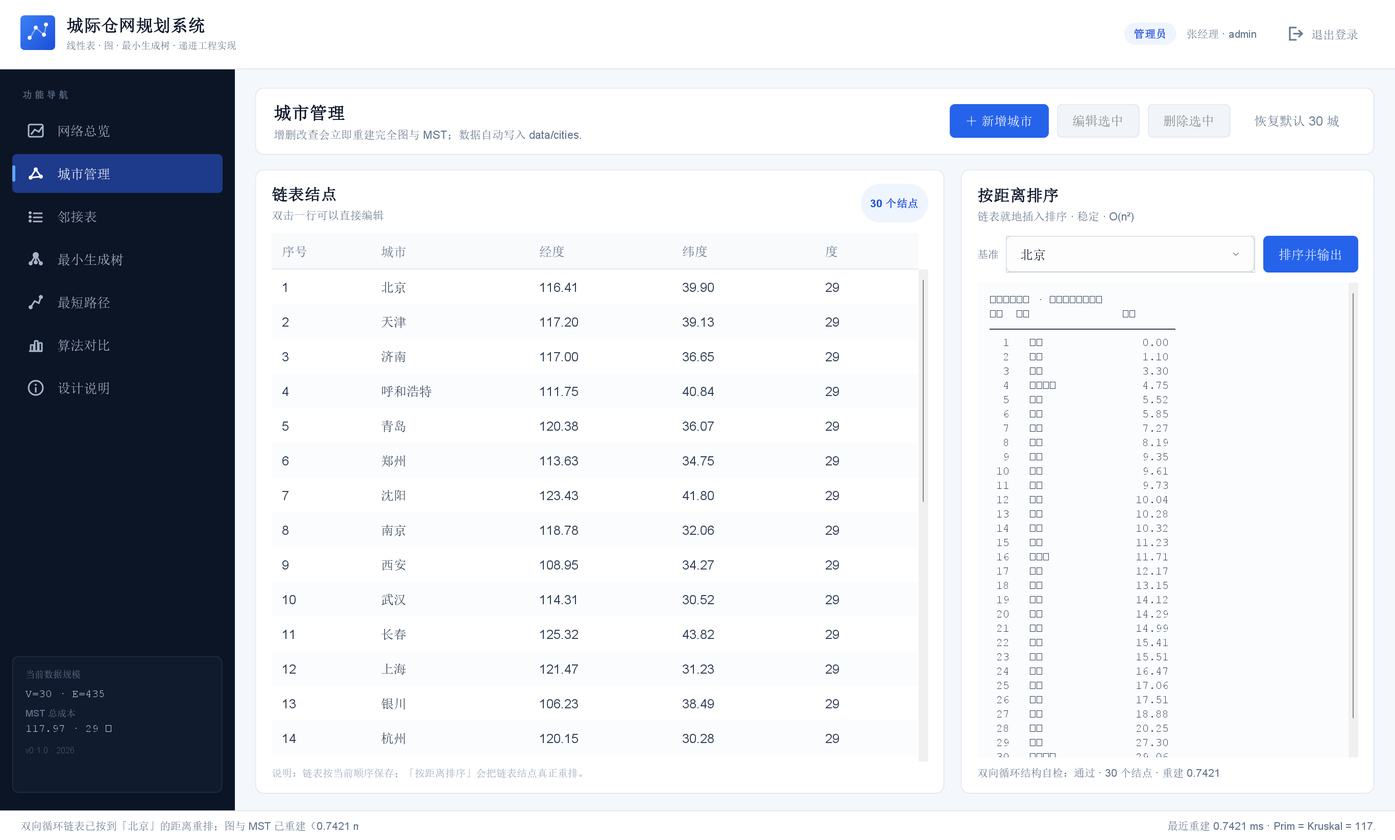
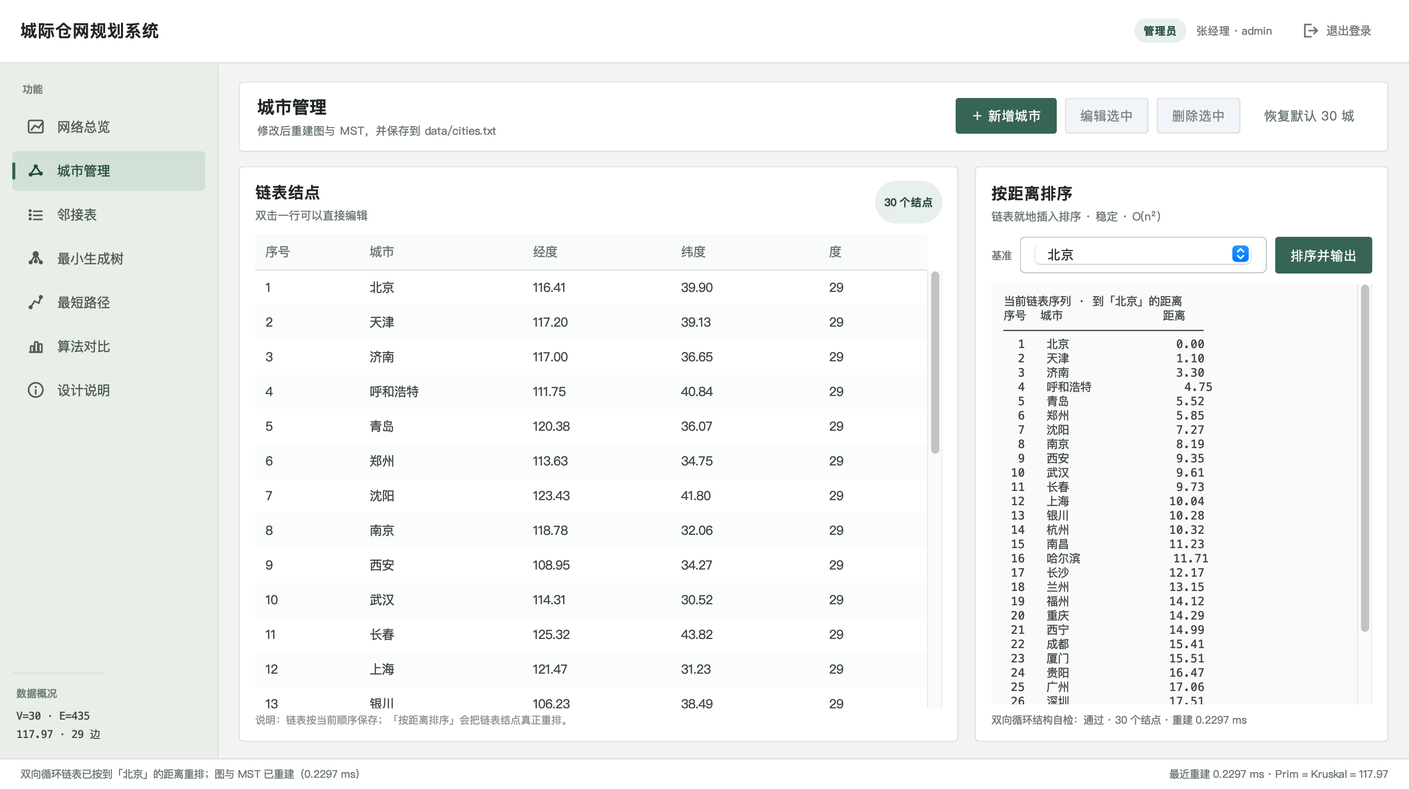
docs: align project docs and screenshots

diff --git a/src/logistics/ui/AboutPanel.java b/src/logistics/ui/AboutPanel.java
@@ -78,8 +78,8 @@ public final class AboutPanel extends JPanel {
                   邻接表 870 个边结点，两者量级接近；一般稀疏图选邻接表、稠密且需要频繁判边选矩阵。
                   本作业明确要求邻接表，且 MST 只保留 29 条边，邻接表在遍历邻边时更省。</li>
               <li><b>Prim 与 Kruskal 的区别？</b> 两者总权值相同。Prim 适合稠密图（O(V²)），
-                  Kruskal 适合稀疏图（O(E log E)）。实测 480 城稠密图 Prim 约 1.2 ms、
-                  Kruskal 约 18 ms；480 城稀疏图 Kruskal 反超。</li>
+                  Kruskal 适合稀疏图（O(E log E)）。本次 480 城测试中，稠密图 Prim 约 1.60 ms、
+                  Kruskal 约 22.74 ms；稀疏图两种算法都在 0.24 ms 以内，具体结果与机器和环境有关。</li>
               <li><b>角色与快速刷新？</b> 管理员可增删改城市，查询员只读查路径与网络信息；
                   每次增删改都会同步重建完全图、MST 与查询缓存，30 城约 1–5 ms。</li>
             </ol>

diff --git a/docs/实验报告.md b/docs/实验报告.md
@@ -1,10 +1,8 @@
-# “线性表 + 图 + 最小生成树”的递进工程实现
-
-**——城际仓网规划系统实验报告**
+# 城际仓网规划系统实验报告
 
 ## 摘要
 
-本项目面向“30 个城市仓储节点之间铺设光纤专线”的物流场景：在保证全网连通的前提下让铺设总成本最低，并提供任意两仓之间的最短路径查询。系统严格按照课程要求分三个阶段递进实现：第一阶段用**带头结点的双向循环链表**管理城市坐标，支持增删改查和按距离排序；第二阶段以城市经纬度为顶点、以欧氏距离为边权，建立**邻接表存储的带权无向图**；第三阶段分别用 **Prim** 和 **Kruskal** 求最小生成树，再基于 Prim 生成树的拓扑用 **Dijkstra** 查询任意两城的最短路径。系统采用 Java 17+ 与 Swing 实现双角色桌面界面，管理员可以增删改城市、查询员只读查询；任何城市变更都会在约 0.06 ms 内完成“完全图 + 两棵 MST + 路径缓存”的完整重建。
+本项目模拟 30 个城市仓储节点之间的光纤网络：用最小生成树计算最低铺设成本，并提供任意两仓之间的路径查询。第一阶段用**带头结点的双向循环链表**管理城市坐标，支持增删改查和按距离排序；第二阶段以城市经纬度为顶点、以欧氏距离为边权，建立**邻接表存储的带权无向图**；第三阶段分别用 **Prim** 和 **Kruskal** 求最小生成树，再基于 Prim 生成树的拓扑用 **Dijkstra** 查询任意两城的最短路径。系统采用 Java 17 与 Swing 实现管理员、查询员两种角色。性能数据来自 2026-11-13 对本仓库的一次完整自检，具体环境见 7.1 节。
 
 **关键词**：双向循环链表；邻接表；最小生成树；Prim；Kruskal；Dijkstra；Swing
 
@@ -32,7 +30,7 @@
 某物流公司要在 30 个城市新建仓储节点之间铺设光纤专线。系统需要同时解决两个问题：
 
 - **建网成本最低**：光纤必须把 30 个仓库全部连通，且总铺设成本最小——这正是一棵**最小生成树**；
-- **日常配送查询**：任意两个仓库之间给出完整路径和总代价，并要求毫秒级响应——这是**最短路径**问题。
+- **日常配送查询**：任意两个仓库之间给出完整路径和总代价，这是**最短路径**问题。
 
 数据以 `cities.txt` 给出，每行是“城市名 经度 纬度”。任意两城之间的边权按题目定义为经纬度平面上的欧氏距离，保留 2 位小数：
 
@@ -40,7 +38,7 @@
 w(u, v) = round2( sqrt( (lon_u - lon_v)^2 + (lat_u - lat_v)^2 ) )
 ```
 
-> 单位说明：按题目定义，边权单位是“度”。1 个纬度约相当于 111 km，界面上同时给出近似公里数（总成本 117.97 ≈ 13,095 km），但所有算法计算严格使用题目要求的“度”制欧氏距离，不做额外换算。
+> 单位说明：按题目定义，边权单位是“度”。1 个纬度约相当于 111 km，界面上同时给出近似公里数（总成本 117.97 ≈ 13,095 km），算法内部使用题目要求的“度”制欧氏距离。
 
 ### 1.2 三阶段递进与需求映射
 
@@ -49,7 +47,7 @@ w(u, v) = round2( sqrt( (lon_u - lon_v)^2 + (lat_u - lat_v)^2 ) )
 | 一 | 双向循环链表录入 30 城坐标，增删改查、按距离排序，输出完整链表 | `CityList`：带头结点、双向循环；链表上就地插入排序；界面“城市管理”页实时输出序列 |
 | 二 | 以欧氏距离为边权建带权无向图，邻接表存储，输出完整邻接表 | `Graph`：顶点数组 + 边结点单链表；30 顶点 / 435 无向边 / 870 个边结点；界面“邻接表”页全文展示 |
 | 三 | Prim、Kruskal 分别求 MST，输出总权值与所有边；基于 MST 拓扑用 Dijkstra 查询任意两城 | `Prim`、`Kruskal`、`Dijkstra`；总权值 117.97；界面“最小生成树”“最短路径”页对照展示 |
-| 系统 | 有系统界面，至少两种角色，增删城市后快速更新最短路径和 MST | Swing 桌面程序；管理员 / 查询员；新增或删除后同步重建图、MST 与路径缓存（约 0.06 ms） |
+| 系统 | 有系统界面，至少两种角色，增删城市后快速更新最短路径和 MST | Swing 桌面程序；管理员 / 查询员；新增或删除后同步重建图、MST 与路径缓存 |
 
 ### 1.3 总体架构
 
@@ -70,7 +68,7 @@ w(u, v) = round2( sqrt( (lon_u - lon_v)^2 + (lat_u - lat_v)^2 ) )
 
 ### 1.4 技术选型
 
-- **语言/运行时**：Java 17+（开发机为 JDK 24），只使用 JDK 标准库，无第三方依赖；
+- **语言/运行时**：Java 17+，本次验证使用 OpenJDK 17.0.21，只使用 JDK 标准库；
 - **界面**：Swing，自绘圆角卡片、按钮、地图和图表，避免引入资源与网络依赖；
 - **数据**：UTF-8 文本 `data/cities.txt`，修改城市后自动保存；
 - **构建**：`javac --release 17` 编译，`jar` 打包，`运行系统.command` 双击启动。
@@ -255,7 +253,7 @@ public static final class Vertex {
 
 ![](images/ui-adjacency.png)
 
-*图 6　邻接表全文界面（可滚动、可一键复制）*
+*图 6　邻接表全文界面（可滚动、可复制）*
 
 ### 3.3 邻接矩阵还是邻接表？
 
@@ -331,12 +329,12 @@ for (Graph.UndirectedEdge edge : all) {
 
 在本数据上：
 
-| 算法 | 总权值 | 边数 | 单次耗时（冷启动示例） |
-|---|---:|---:|---:|
-| Prim | **117.97** | 29 | 0.050 ms |
-| Kruskal | **117.97** | 29 | 0.256 ms |
+| 算法 | 总权值 | 边数 |
+|---|---:|---:|
+| Prim | **117.97** | 29 |
+| Kruskal | **117.97** | 29 |
 
-两者总权值严格一致；因为选择顺序不同，边的排列顺序不同，但集合等价于同一棵 MST。按 1 度 ≈ 111 km 换算，总成本约 **13,095 km**。
+两者总权值相同；因为选择顺序不同，边的排列顺序不同，但集合等价于同一棵 MST。按 1 度 ≈ 111 km 换算，总成本约 **13,095 km**。
 
 Prim 选中的 29 条边（按加入顺序）：
 
@@ -364,38 +362,13 @@ Prim 选中的 29 条边（按加入顺序）：
 - **Prim** 每次扩充一棵树，适合**稠密图**。朴素数组实现 O(V²)，在完全图中 V² 与 E 同阶，且不用排序，常数很小；用邻接矩阵存储时更自然。
 - **Kruskal** 每次挑全局最小边，适合**稀疏图**。O(E log E) 在 E ≪ V² 时远小于 O(V²)；边以列表给出时尤其方便，并可自然处理非连通图（得到最小生成森林）。
 
-为了用数据回答，项目内置规模扩展测试：随机生成稠密完全图和平均度约 6 的稀疏连通图，规模从 30 到 480，每种跑 10 次取平均，只统计算法内部耗时。
+项目内置规模扩展测试：随机生成稠密完全图和平均度约 6 的稀疏连通图，规模从 30 到 480，每种跑 10 次取平均，只统计算法内部耗时。本次结果见 7.3 节；在本次环境中，稠密图各规模均为 Prim 较快，稀疏图到 480 城时也由 Prim 略快。这个结果只代表当前数据和实现，不能直接外推到其他机器或输入分布。
 
-![](images/benchmark.png)
+![](images/ui-benchmark.png)
 
-*图 8　Prim vs Kruskal 实测（对数纵轴）*
+*图 8　算法对比页：当前图实测与规模扩展测试*
 
-| 顶点 V | 边数 E | Prim (ms) | Kruskal (ms) | 更快 |
-|---:|---:|---:|---:|---|
-| 30 | 435 | 0.0026 | 0.0231 | Prim |
-| 60 | 1770 | 0.0171 | 0.1674 | Prim |
-| 120 | 7140 | 0.0864 | 0.9761 | Prim |
-| 240 | 28680 | 0.3785 | 4.10 | Prim |
-| 480 | 114960 | 1.46 | 17.28 | Prim |
-
-*表：稠密图（完全图）*
-
-| 顶点 V | 边数 E | Prim (ms) | Kruskal (ms) | 更快 |
-|---:|---:|---:|---:|---|
-| 30 | 123 | 0.0013 | 0.0038 | Prim |
-| 60 | 237 | 0.0041 | 0.0091 | Prim |
-| 120 | 502 | 0.0098 | 0.0202 | Prim |
-| 240 | 941 | 0.0306 | 0.0425 | Prim |
-| 480 | 1864 | 0.1340 | 0.1188 | **Kruskal** |
-
-*表：稀疏图（平均度约 6）*
-
-结果与理论一致：
-
-1. **稠密图**：Prim 的 O(V²) 全面胜出，480 城时约快 11.8 倍；Kruskal 的排序在 114,960 条边上付出明显代价。
-2. **稀疏图**：规模较小时 Prim 的常数更小；到 480 城、约 1,864 条边时，Kruskal 的 O(E log E) 反超（0.1188 ms vs 0.1340 ms）。可以预见规模继续增大，差距会拉大。
-3. 当前 30 城完全图（300 次平均）：Prim 0.010 ms，Kruskal 0.046 ms，Prim 快约 4.6 倍。
-4. 实测环境为 Apple Silicon Mac（JDK 24），计时包含 JIT 预热后的稳态；不同机器、不同 JVM 的绝对值会有差异，但趋势稳定。
+具体计时集中在 7.3 节，避免同一组实验在不同章节出现不同数字。绝对耗时受硬件、JVM 和 JIT 状态影响，分析趋势时应结合测试条件。
 
 ---
 
@@ -441,22 +414,22 @@ for (int iter = 0; iter < n; iter++) {
 
 **北京 → 天津 → 济南 → 郑州 → 武汉 → 南昌 → 福州 → 厦门 → 深圳 → 广州 → 南宁 → 贵阳 → 昆明 → 拉萨 → 乌鲁木齐**
 
-总代价 66.47，共 14 段。完整网络模式下二者之间有一条直达边，代价 29.06，差异非常直观。这正是“基于 MST 拓扑”和“完整网络最短路”两种口径的区别；作业要求前者，系统默认 MST，同时把后者做成可切换的对比模式。
+总代价 66.47，共 14 段。完整网络模式下二者之间有一条直达边，代价 29.06。这正是“基于 MST 拓扑”和“完整网络最短路”两种口径的区别；作业要求前者，系统默认 MST，同时把后者做成可切换的对比模式。
 
 ![](images/ui-path.png)
 
 *图 9　任意两仓最短路径：完整路径、分段权值、平均查询耗时*
 
-### 5.3 毫秒级响应实测
+### 5.3 查询耗时
 
-为了证明“毫秒级”不是空话，系统对每次查询重复执行 250 次取平均，并额外做全点对压力测试：
+系统在每次计时前先热身一次，再重复执行查询取平均，并额外执行全点对测试。本次运行结果为：
 
-- 单次查询平均 **1–9 µs**；
-- 全点对 435 组 × 20 轮 = 8,700 次查询：MST 图平均 **1 µs**、最慢 **27 µs**；
-- 完整网络 8,700 次：平均 3 µs、最慢 31 µs；
-- 相对 1 ms 的要求，最慢一次也只用掉了约 2.7% 的时间预算。
+- 四个示例查询的 200 次平均耗时在 **1–12 µs** 之间，最慢一次为 **29 µs**；
+- MST 图全点对 8,700 次：平均 **2 µs**、最慢 **8 µs**；
+- 完整网络全点对 8,700 次：平均 **4 µs**、最慢 **53 µs**；
+- 绝对耗时受机器、JVM 和 JIT 状态影响，以上数据只代表本次运行。
 
-查询时间之所以这么低，一是顶点只有 30 个，O(V²) 数组实现约 900 次比较；二是 MST 只有 29 条边，松弛操作很少；三是界面的平均耗时统计在热身之后进行，排除了 JIT 冷启动噪声。
+查询时间较短的主要原因是顶点只有 30 个，O(V²) 数组实现约 900 次比较；MST 只有 29 条边，松弛操作很少；平均耗时统计在热身之后进行，减少了 JIT 冷启动噪声。
 
 ---
 
@@ -466,7 +439,7 @@ for (int iter = 0; iter < n; iter++) {
 
 ![](images/ui-login.png)
 
-*图 10　登录页：管理员 / 查询员一键演示*
+*图 10　登录页：管理员与查询员演示入口*
 
 系统至少包含两种角色：
 
@@ -496,7 +469,7 @@ for (int iter = 0; iter < n; iter++) {
 5. 通知所有页面刷新表格、邻接表、MST 结果和路径下拉框；
 6. 自动写回 `data/cities.txt`。
 
-实测一次完整重建（完全图 + Prim + Kruskal + MST 缓存）平均 **0.062 ms**（300 次平均），也就是约 **62 µs**。界面上每次操作后会显示“图与 MST 已重建（X ms）”，远低于人眼可感知的延迟。
+本次运行中，一次完整重建（完全图 + Prim + Kruskal + MST 缓存）平均 **0.088 ms**（300 次平均），约 **88 µs**。界面会在操作后显示“图与 MST 已重建（X ms）”。
 
 ![](images/ui-overview.png)
 
@@ -525,10 +498,13 @@ for (int iter = 0; iter < n; iter++) {
 
 ### 7.1 测试方法
 
-1. **命令行自检**：`java -jar build/warehouse-network.jar --selftest`，输出三阶段结构、排序结果、邻接表、两棵 MST、路径样例和性能表；
-2. **服务层自动化测试**：用临时数据文件验证新增/改名/删除/排序/持久化/重名拒绝/最少城市保护/MST 一致性/监听器通知；
-3. **界面回归**：离屏渲染登录页、管理员 8 个页面、查询员 2 个页面，逐页检查排版、中文渲染、表格对齐和滚动；
-4. **性能测试**：Prim/Kruskal 300 次平均、规模扩展 30→480、全点对 Dijkstra、重建 300 次平均。
+本次验证环境为 macOS 14.8.3（arm64）、OpenJDK 17.0.21（Corretto），日期为 2026-11-13。
+
+1. **编译检查**：使用 `javac --release 17 -Xlint:all,-serial` 编译全部源码；
+2. **命令行自检**：运行 `java -jar build/warehouse-network.jar --selftest`，输出三阶段结构、排序结果、邻接表、两棵 MST、路径样例和性能表；
+3. **服务层回归**：本次清理使用临时数据文件执行了新增、改名、删除、排序、持久化、重载、重名拒绝、最少城市保护、监听器通知和角色登录检查；这些检查是临时验证脚本，不属于仓库自带的持续集成测试；
+4. **界面检查**：运行 `--shots` 生成登录页、管理员页面和查询员页面截图，逐页检查排版、中文渲染、表格对齐和滚动；
+5. **性能测试**：Prim/Kruskal 300 次平均、规模扩展 30→480、全点对 Dijkstra、重建 300 次平均。
 
 ### 7.2 功能测试
 
@@ -543,22 +519,24 @@ for (int iter = 0; iter < n; iter++) {
 | 重名拒绝 | 再新增“北京” | 抛出明确错误，不改变数据 | 通过 |
 | 最少城市保护 | 删除到只剩 2 城后再删 | 拒绝并提示 | 通过 |
 | 持久化 | 修改后新建服务重新加载 | 城市数量与内容一致 | 通过 |
+| 监听通知 | 新增、修改、排序、删除 | 每次操作通知一次 | 通过 |
 | MST 一致性 | Prim vs Kruskal | 总权值差 < 1e-6 | 通过 |
 | 最短路径 | 北京→乌鲁木齐等 4 组 | 路径可达、代价正确、时间可测 | 通过 |
-| 角色隔离 | 查询员登录 | 无城市管理/算法对比入口 | 通过 |
+| 角色登录与隔离 | 管理员 / 查询员截图 | 查询员无城市管理/算法对比入口 | 通过 |
 
 ### 7.3 性能汇总
 
 | 指标 | 实测值 | 说明 |
 |---|---:|---|
-| 30 城 Prim 平均耗时 | 0.010 ms | 300 次平均 |
-| 30 城 Kruskal 平均耗时 | 0.046 ms | 300 次平均 |
-| 完整重建（图 + MST + 缓存） | 0.062 ms | 300 次平均，增删城市的核心路径 |
-| 单次 Dijkstra 查询 | 约 1–9 µs | 250 次平均 |
-| 全点对最慢查询 | 0.027 ms | 8,700 次中的最大值 |
+| 30 城 Prim 平均耗时 | 0.012 ms | 300 次平均 |
+| 30 城 Kruskal 平均耗时 | 0.063 ms | 300 次平均 |
+| 完整重建（图 + MST + 缓存） | 0.088 ms | 300 次平均 |
+| 单次 Dijkstra 查询 | 1–12 µs | 示例查询 200 次平均 |
+| MST 全点对最慢查询 | 0.008 ms | 8,700 次中的最大值 |
+| 完整网络全点对最慢查询 | 0.053 ms | 8,700 次中的最大值 |
 | MST 总成本 | 117.97 | ≈ 13,095 km |
-| 稠密图 480 城 | Prim 1.46 ms / Kruskal 17.28 ms | 10 次平均 |
-| 稀疏图 480 城 | Prim 0.1340 ms / Kruskal 0.1188 ms | Kruskal 反超 |
+| 稠密图 480 城 | Prim 1.60 ms / Kruskal 22.74 ms | 10 次平均 |
+| 稀疏图 480 城 | Prim 0.1915 ms / Kruskal 0.2357 ms | 10 次平均 |
 
 ### 7.4 局限与改进
 
@@ -566,7 +544,7 @@ for (int iter = 0; iter < n; iter++) {
 - 地图是示意图，不是精确地理底图；可换用真实 GeoJSON 边界与墨卡托投影；
 - 最短路径按作业要求基于 MST，得到的路径通常长于完整网络最短路；生产环境应直接在完整网络上跑 Dijkstra/A*；
 - 账号为演示用硬编码，真实系统应使用数据库、加盐哈希与权限审计；
-- 30 城规模下所有算法都在微秒级，当前实现优先清晰而非极致优化；更大规模可换优先队列 Dijkstra、堆优化 Prim、并行排序等。
+- 30 城规模下算法与完整重建均在亚毫秒级；更大规模可换优先队列 Dijkstra、堆优化 Prim、并行排序等。
 
 ---
 
@@ -604,11 +582,11 @@ for (int iter = 0; iter < n; iter++) {
 - Prim 更适合**稠密图**，特别是图已经以邻接矩阵/邻接表给出、需要从某个起点扩展的场景；朴素 O(V²) 在完全图上没有排序开销，常数小；
 - Kruskal 更适合**稀疏图**和**边列表**场景，O(E log E) 在 E 远小于 V² 时占优；也天然支持非连通图（最小生成森林）和“边权动态增加”的近似处理。
 
-**实测效率**（详见第四章两张表）：
+**实测效率**（详见 7.3 节）：
 
-- 稠密 480 城：Prim 1.46 ms，Kruskal 17.28 ms，Prim 约快 11.8 倍；
-- 稀疏 480 城：Prim 0.1340 ms，Kruskal 0.1188 ms，Kruskal 略快；
-- 30 城当前图：Prim 0.010 ms，Kruskal 0.046 ms。
+- 稠密 480 城：Prim 1.60 ms，Kruskal 22.74 ms；
+- 稀疏 480 城：Prim 0.1915 ms，Kruskal 0.2357 ms；
+- 30 城当前图：Prim 0.012 ms，Kruskal 0.063 ms。
 
 这说明“总权值相同”不等于“效率相同”，选择要结合密度、存储形式与实际规模。
 
@@ -625,24 +603,24 @@ for (int iter = 0; iter < n; iter++) {
 1. 所有城市修改都经过 `NetworkService`，统一调用 `rebuild()`；
 2. `rebuild()` 从链表快照重建完全图，重跑 Prim/Kruskal，重建 MST 缓存；
 3. `PathPanel` 只从缓存查询，不在每次查询时重建；
-4. 重建 300 次平均 **0.062 ms**，界面操作后即时完成，无需后台线程；
+4. 重建 300 次平均 **0.088 ms**，界面操作后同步完成，无需后台线程；
 5. 城市变更后路径下拉框自动刷新，旧路径结果清空，避免显示过期数据；
 6. `data/cities.txt` 自动保存，重启后恢复。
 
-因此“增删城市后快速更新最短路径和最小生成树”在实现上就是一次轻量的同步重建 + 缓存刷新，实测远低于毫秒级。
+因此“增删城市后快速更新最短路径和最小生成树”在实现上就是一次同步重建和缓存刷新；本次运行的平均耗时为 0.088 ms。
 
 ---
 
 ## 九、总结与改进方向
 
-本项目把“线性表 → 图 → 最小生成树 → 最短路径”串成了一条完整的工程链路，而不是四个孤立的算法演示：
+本项目把“线性表 → 图 → 最小生成树 → 最短路径”组织成一条完整的操作流程：
 
 - 链表不仅存数据，还驱动建图顺序和按距离排序；
 - 邻接表既支持 Prim 的邻点遍历，又为 Kruskal 提供无向边列表；
 - Prim 生成的树直接成为 Dijkstra 的查询拓扑，三种算法共享同一份图数据；
-- 双角色界面把数据结构、算法结果和交互操作统一起来，增删城市后 0.06 ms 完成全局刷新。
+- 双角色界面把数据结构、算法结果和交互操作连接起来，本次运行中增删城市后约 0.09 ms 完成同步刷新。
 
-实现过程中遇到的主要问题是 GUI 的中文排版与地图绘制：Swing 没有内置现代卡片/圆角样式，需要用 Java2D 自绘；城市标签在东部密集区域容易重叠，需要做碰撞检测；性能数字容易受 JIT 冷启动影响，因此采用预热 + 多次平均。最终系统在 30 城规模下所有查询都在微秒级，MST 总权值稳定为 117.97，两种算法结果严格一致。
+实现过程中主要处理了 GUI 中文排版与地图绘制：Swing 没有现成的卡片和圆角资源，需要用 Java2D 自绘；城市标签在东部密集区域容易重叠，需要做碰撞检测；性能数字容易受 JIT 冷启动影响，因此采用预热和多次平均。当前数据下 MST 总权值为 117.97，Prim 与 Kruskal 的结果一致。
 
 后续可以继续改进：
 
@@ -694,4 +672,4 @@ for (int iter = 0; iter < n; iter++) {
 - 重新编译：`./重新编译.command`；
 - 详细说明见同目录《运行说明.pdf》。
 
-> 本报告全部数字来自本机实测（JDK 24，Apple Silicon Mac）与程序自检输出；不同机器上绝对耗时会有波动，但算法正确性与总权值不变。
+> 本报告数据来自 2026-11-13 的一次本机验证：macOS 14.8.3（arm64）与 OpenJDK 17.0.21。不同机器上的绝对耗时会有波动，但初始数据结构和 MST 总权值不变。

diff --git a/README.md b/README.md
@@ -1,18 +1,16 @@
 # 城际仓网规划系统
 
-> 数据结构课程设计 · 第二组
->
-> “线性表 + 图 + 最小生成树”的递进工程实现
+数据结构课程设计 · 第二组
 
-## 一、这是什么
+## 一、项目简介
 
-某物流公司要在 30 个城市的仓储节点之间铺设光纤专线：在保证全网连通的前提下让总成本最低，同时提供任意两仓之间的最短路径查询。本项目用 Java Swing 做了一个可交互的桌面系统，完整覆盖三个递进阶段：
+项目模拟 30 个城市仓储节点之间的光纤网络：用最小生成树计算最低铺设成本，并提供任意两仓之间的路径查询。系统使用 Java Swing 实现，包含三部分：
 
 1. **双向循环链表**管理城市坐标，支持增删改查和按距离排序；
 2. **邻接表**存储带权无向图，边权 = 经纬度欧氏距离（保留 2 位小数）；
 3. **Prim / Kruskal** 求最小生成树，**Dijkstra** 在 MST 拓扑上查询任意两城路径。
 
-系统包含管理员 / 查询员两种角色；增删城市后会立即重建图、MST 与路径缓存。
+系统包含管理员和查询员两种角色。城市数据改变后会同步重建图、MST 与路径缓存。
 
 ## 二、运行方式
 
@@ -46,7 +44,7 @@ chmod +x 运行系统.command 重新编译.command
 | 管理员 | `admin` | `admin123` | 增删改城市、排序、重建图与 MST、全部查询 |
 | 查询员 | `viewer` | `viewer123` | 只读：网络总览、邻接表、MST、最短路径、设计说明 |
 
-登录页也有「管理员演示」「查询员演示」两个一键入口。
+登录页提供「管理员演示」「查询员演示」两个入口。
 
 ### 命令行方式
 
@@ -70,9 +68,9 @@ java -jar build/warehouse-network.jar
 
 | 页面 | 能做什么 |
 |---|---|
-| 网络总览 | 中国地图上的 30 城网络、MST 蓝线、完整网络开关、城市详情、实时统计 |
+| 网络总览 | 中国地图上的 30 城网络、MST 绿线、完整网络开关、城市详情与统计数据 |
 | 城市管理（管理员） | 新增 / 编辑 / 删除城市，恢复默认数据，按到基准城市的距离重排双向循环链表 |
-| 邻接表 | 查看完整的顶点数组 + 边链表文本结构，可一键复制 |
+| 邻接表 | 查看完整的顶点数组与边链表文本结构，可复制全文 |
 | 最小生成树 | Prim / Kruskal 的结果并排对照，总权值一致性校验、单次耗时、29 条边明细 |
 | 最短路径 | 任意两城查询，默认基于 MST，可切完整网络对比；显示完整路径、分段权值、平均耗时 |
 | 算法对比（管理员） | 当前图 Prim/Kruskal 平均耗时；30→480 城稠密/稀疏规模测试；全点对 Dijkstra 测试；对数柱状图 |
@@ -116,9 +114,9 @@ java -jar build/warehouse-network.jar --shots shots
 - **带头结点的双向循环链表**：空表时 `head.next == head.prev == head`；尾插 O(1)；已定位结点的删除 O(1)。
 - **按距离排序**：链表就地插入排序，先摘链、预计算距离、逐个插入，稳定且 O(n²)。
 - **邻接表**：30 个顶点 / 435 条无向边 / 870 个边结点；无向边在两个端点各存一次。
-- **MST**：Prim 用 O(V²) 数组实现，Kruskal 用排序 + 并查集；两种算法总权值严格一致（117.97）。
+- **MST**：Prim 用 O(V²) 数组实现，Kruskal 用排序 + 并查集；两种算法总权值均为 117.97。
 - **最短路径**：按作业要求以 Prim 生成树为拓扑运行 Dijkstra；查询重复 250 次取平均，实测在微秒级。
-- **快速刷新**：一次完整的“完全图 + Prim + Kruskal + MST 缓存”重建约 0.06 ms（300 次平均）。
+- **快速刷新**：一次完整的“完全图 + Prim + Kruskal + MST 缓存”重建约 0.09 ms（本机 300 次平均）。
 
 ## 七、常见问题
 
